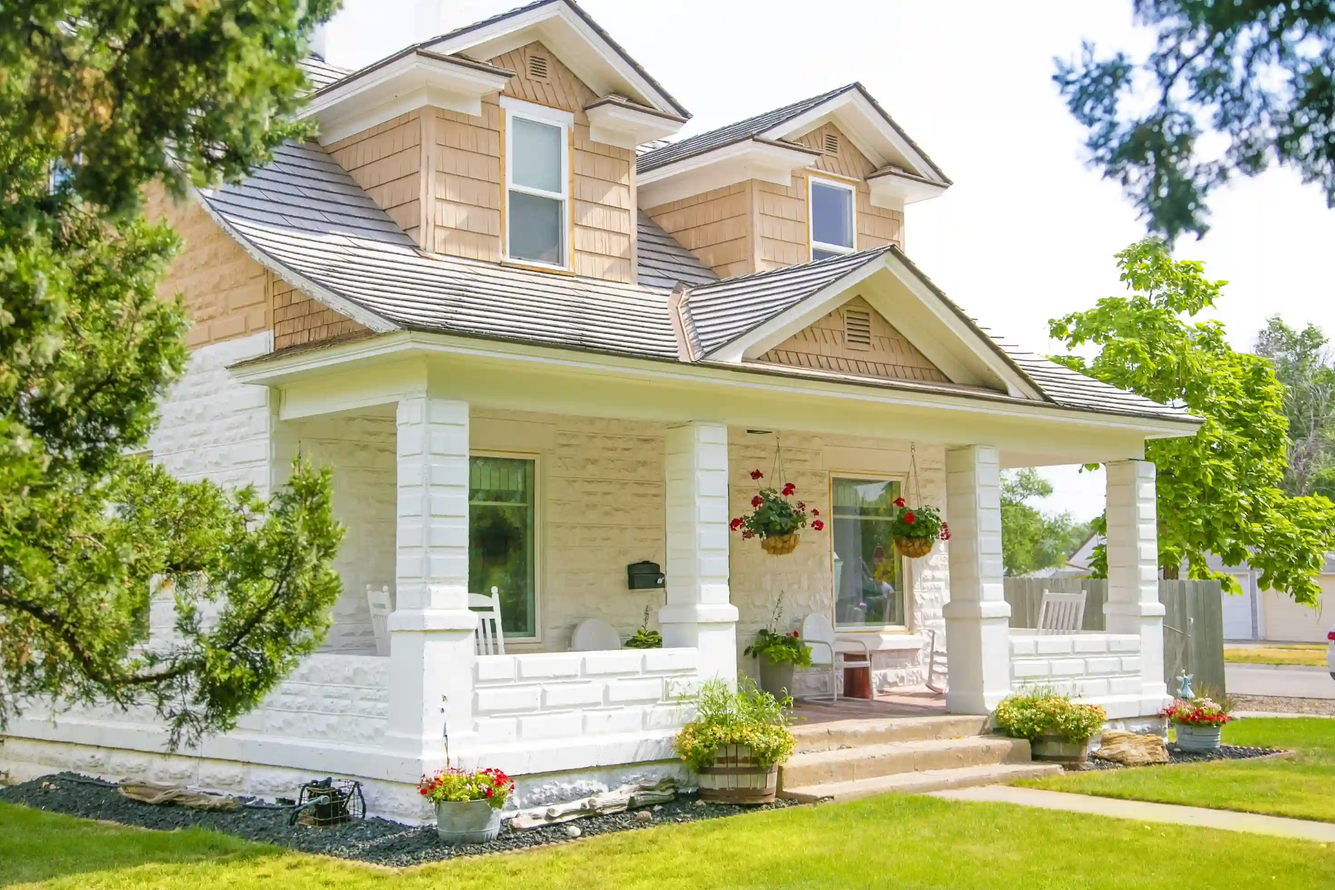
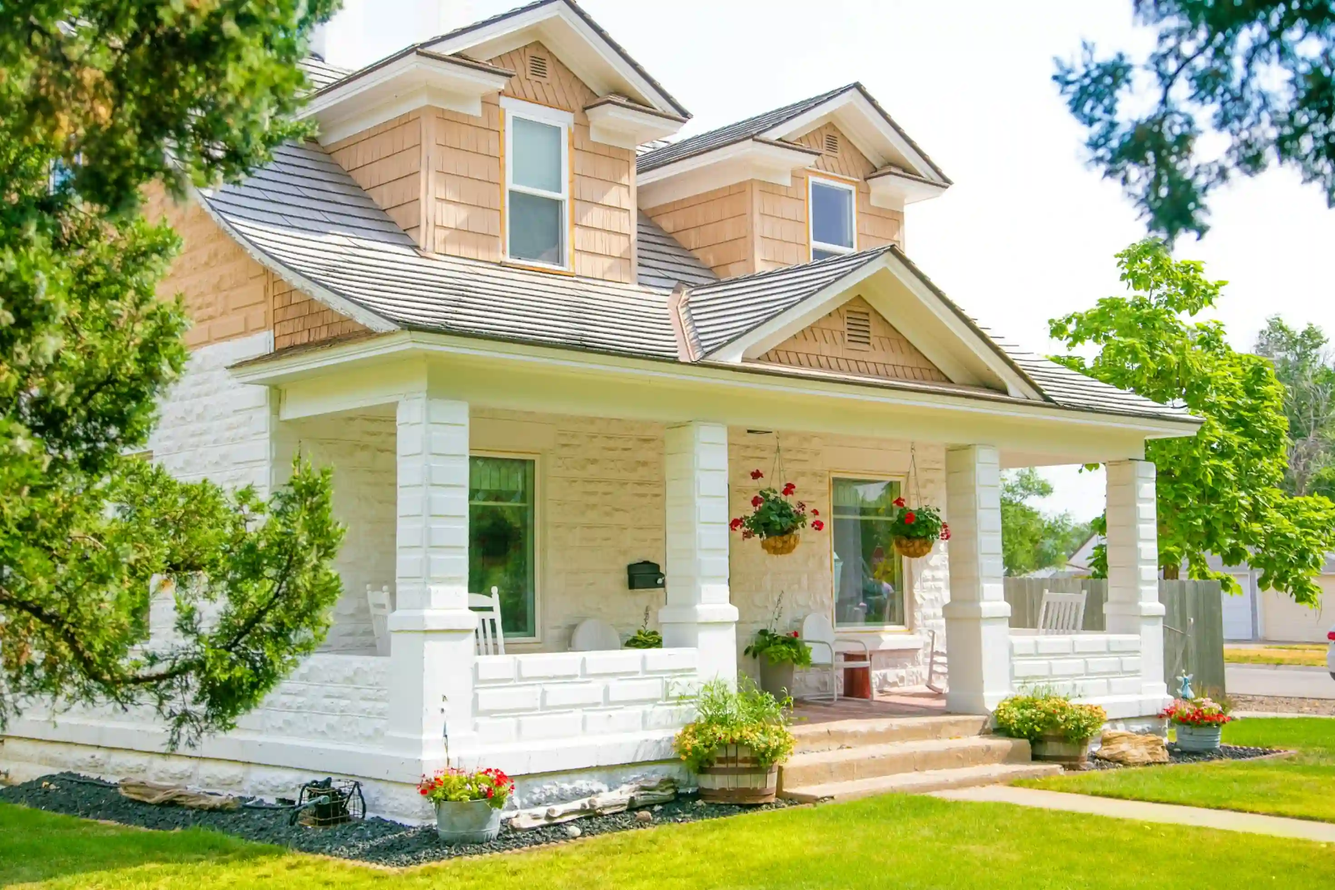
fix : optimize image& fix user interface

diff --git a/src/features/property/context/use-property.tsx b/src/features/property/context/use-property.tsx
@@ -21,6 +21,9 @@ interface PropertyContextType {
   error: unknown;
   selectedProperty: PropertyProps | null;
   setSelectedProperty: (selectedProperty: PropertyProps) => void;
+  categoryLists: string[];
+  selectedCategory: string;
+  setSelectedCategory: (category: string) => void;
 }
 const PropertyContext = createContext<PropertyContextType | undefined>(undefined);
 
@@ -29,12 +32,20 @@ export const PropertyProvider = ({ children }: { children: ReactNode }) => {
   const [selectedProperty, setSelectedProperty] = useState<PropertyProps | null>(null);
   const [loading, setLoading] = useState<boolean>(true);
   const [error, setError] = useState<unknown>(null);
+  const [categoryLists, setCategoryList] = useState<string[]>([]);
+  const [selectedCategory, setSelectedCategory] = useState<string>("All");
+
+
   useEffect(() => {
     const fetchPropertyData = async () => {
       try {
         const response = await axios.get("https://json-server-code-challenge.vercel.app/properties");
         setProperties(response.data);
         setLoading(false);
+        
+        const properties : PropertyProps[] = response.data;
+        setProperties(properties);
+        setCategoryList(["All",...new Set(properties.map((property: PropertyProps) => property.category))])
       } catch (error) {
         setError(error);
         setLoading(false);
@@ -45,7 +56,7 @@ export const PropertyProvider = ({ children }: { children: ReactNode }) => {
   },[])
 
   return (
-    <PropertyContext.Provider value={{properties, loading, error, selectedProperty, setSelectedProperty}}>
+    <PropertyContext.Provider value={{properties, loading, error, selectedProperty, setSelectedProperty, categoryLists, selectedCategory, setSelectedCategory}}>
       {children}
     </PropertyContext.Provider>
   )
@@ -53,6 +64,6 @@ export const PropertyProvider = ({ children }: { children: ReactNode }) => {
 
 export const useProperties = () => {
   const context = useContext(PropertyContext);
-  if (!context) throw new Error("useProducts muse within PropertyProvider");
+  if (!context) throw new Error("useProperties muse within PropertyProvider");
   return context;
 }

diff --git a/src/features/header/index.tsx b/src/features/header/index.tsx
@@ -4,10 +4,12 @@ import Image from "next/image";
 import Link from "next/link";
 import Sidemenu from "../sidemenu";
 import { useState } from "react";
+import { useProperties } from "../property/context/use-property";
 
 const Headers = () => {
 
   const [isSidemenuOpen, setSidemenuOpen] = useState(false);
+  const {setSelectedCategory} = useProperties();
 
   return (
     <nav className="text-white flex w-full h-fit items-center p-5 bg-white/20 rounded-[18px] my-6 relative">
@@ -21,19 +23,19 @@ const Headers = () => {
       </div>
       <div className="w-3/5 items-center justify-center px-20 hidden md:block">
         <ul className="flex justify-between w-full">
-          <li className="p-2"><Link href="/">Overview</Link></li>
-          <li className="p-2"><Link href="/unit">Unit</Link></li>
-          <li className="p-2"><Link href="/about-us">About Us</Link></li>
-          <li className="p-2"><Link href="/team">Team</Link></li>
+          <li className="p-2"><Link href="/" onClick={() => setSelectedCategory("All")}>Overview</Link></li>
+          <li className="p-2"><Link href="/unit" onClick={() => setSelectedCategory("All")}>Unit</Link></li>
+          <li className="p-2"><Link href="/about-us" onClick={() => setSelectedCategory("All")}>About Us</Link></li>
+          <li className="p-2"><Link href="/team" onClick={() => setSelectedCategory("All")}>Team</Link></li>
         </ul>
       </div>
-      <div className="w-1/5">
-        <div className="gap-2 hidden md:flex">
+      <div className="w-1/2 md:w-1/5 items-end justify-end">
+        <div className="gap-2 w-full hidden md:flex">
           <button className="px-6 py-2" name="register-button">Register</button>
           <button className="px-6 py-2 text-black bg-white border-[1px] rounded-xl border-[#DDDDDD] font-medium" name="login-button">Login</button>
         </div>
         <div
-          className="w-1/2 flex justify-end items-end md:hidden"
+          className="w-full flex justify-end items-end md:hidden"
           onClick={() => setSidemenuOpen(true)}
         >
           <Image

diff --git a/src/features/property/components/property-list.tsx b/src/features/property/components/property-list.tsx
@@ -4,10 +4,12 @@ import { useProperties } from "../context/use-property";
 import { useRouter } from "next/navigation";
 import PropertyCard from "./property-card";
 import { Property } from "@/type/properties";
+import CategoryFilter from "./category-filter";
+
 
 const PropertyLists = () => {
 
-  const { properties, setSelectedProperty } = useProperties();
+  const { properties, selectedCategory, setSelectedProperty } = useProperties();
   const router = useRouter();
 
   const handleArrowClick = (property: Property) => {
@@ -15,21 +17,29 @@ const PropertyLists = () => {
     router.push("/unit");
   }
 
+  const filteredProperties = selectedCategory === "All"
+    ? properties
+    : properties.filter((property) => property.category === selectedCategory);
+
   return (
-    <div className="flex flex-wrap gap-5 items-center justify-center">
-      {properties.map((property) => (
-        <div key={property.id}>
-          <PropertyCard
-            name={property.name}
-            location={property.location}
-            price={property.price}
-            discount={property.discount}
-            rating={property.rating}
-            image={property.image}
-            onSelect={() => handleArrowClick(property)}
+    <div className="grid grid-cols-1 w-full">
+      <CategoryFilter />
+      <div className="grid grid-cols-1 md:grid-cols-3 gap-5 items-center justify-center w-full">
+        {filteredProperties.map((property) => (
+          <div key={property.id}>
+            <PropertyCard
+              name={property.name}
+              location={property.location}
+              price={property.price}
+              discount={property.discount}
+              rating={property.rating}
+              image={property.image}
+              onSelect={() => handleArrowClick(property)}
             />
-        </div>
-      ))}
+          </div>
+        ))}
+      </div>
+
     </div>
   )
 

diff --git a/src/features/testimonials/components/testimonial-card.tsx b/src/features/testimonials/components/testimonial-card.tsx
@@ -12,7 +12,7 @@ const TestimonialCard: FC<TestimonialsProps> = ({ name, role, message, imageUrl}
             width={435}
             height={210}
             alt={`Image of ${name}`}
-            className="object-cover md:w-[435px] md:h-[210px] w-full h-full"
+            className="object-cover md:h-[210px] w-full h-full"
           />
           <div className="absolute right-0 top-0 rounded-bl-3xl bg-white border-white border-b-2 border-l-2 w-fit overflow-hidden">
             <div
@@ -23,7 +23,7 @@ const TestimonialCard: FC<TestimonialsProps> = ({ name, role, message, imageUrl}
         </div>
         <div className="flex flex-col gap-3">
           <div className="flex font-medium text-xl justify-between gap-4 md:gap-0">
-            <p className="text-sm text-gray-500">{message}</p>
+            <p className="text-sm text-gray-500 text-center md:text-left">{message}</p>
           </div>
         </div>
       </div>

diff --git a/src/features/property/components/category-button.tsx b/src/features/property/components/category-button.tsx
@@ -1,0 +1,33 @@
+"use client";
+
+import { useState } from "react";
+import { useProperties } from "../context/use-property";
+import { FC } from "react";
+import { cn } from "@/utils/cn";
+
+interface FilterButtonProps {
+    title: string;
+    itemCount: number;
+}
+
+const FilterButton: FC<FilterButtonProps> = ({ title, itemCount }) => {
+
+    const { selectedCategory, setSelectedCategory } = useProperties();
+
+    const [] = useState<boolean>(false);
+
+    return (
+        <button
+            className={cn("md:text-xl px-4 py-3 md:px-6 md:py-5 whitespace-nowrap rounded-full", selectedCategory === title ? "bg-blue-500 text-white font-bold" : "bg-blue-50")}
+            onClick={() => {
+                setSelectedCategory(title)
+            }}
+        >
+
+          {title}
+          ({itemCount})
+        </button>
+    );
+}
+
+export default FilterButton;

diff --git a/src/features/property/components/property-card.tsx b/src/features/property/components/property-card.tsx
@@ -14,7 +14,7 @@ interface PropertyProps {
 const PropertyCard: FC<PropertyProps> = ({ name, location, price, discount, rating, image, onSelect }) => {
   return (
     <div
-      className="flex flex-col gap-4"
+      className="flex flex-col gap-4 w-full"
       onClick={onSelect}>
       <div className="relative group">
         <Image
@@ -22,7 +22,7 @@ const PropertyCard: FC<PropertyProps> = ({ name, location, price, discount, rati
           width={410}
           height={200}
           alt={`Image of ${name}`}
-          className="object-cover md:w-[410px] md:h-[210px] w-full rounded-3xl h-full"
+          className="object-cover md:h-[240px] w-full rounded-3xl h-full"
         />
         <div className="absolute right-0 bottom-0 rounded-tl-3xl rounded-br-3xl bg-white border-white border-t-4 border-l-4 w-fit overflow-hidden">
           <button

diff --git a/src/features/property/components/category-filter.tsx b/src/features/property/components/category-filter.tsx
@@ -1,0 +1,29 @@
+"use client";
+
+import FilterButton from "./category-button";
+import { useProperties } from "../context/use-property";
+
+const CategoryFilter = () => {
+
+  const { properties, categoryLists } = useProperties();
+
+  const propertyQuantity = (category: string) => {
+    if(category === "All") return properties.length;
+    return properties.filter((property) => property.category === category).length;
+
+  }
+
+return (
+  <div className="mb-5 w-full flex flex-nowrap scrollbar-hide gap-2 overflow-scroll">
+    {categoryLists.map((category) => (
+      <FilterButton
+        key={category}
+        title={category}
+        itemCount={propertyQuantity(category)}
+      />
+    ))}
+  </div>
+);
+}
+
+export default CategoryFilter;

diff --git a/src/features/sidemenu/index.tsx b/src/features/sidemenu/index.tsx
@@ -1,4 +1,5 @@
 import Link from "next/link";
+import Image from "next/image";
 import { FC } from "react";
 import { cn } from "@/utils/cn";
 
@@ -30,13 +31,14 @@ const Sidemenu: FC<SidemenuProps> = ({ isOpen, setSidemenuOpen }) => {
           onClick={() => setSidemenuOpen(false)}
         >Team</Link></li>
       </ul>
-      <button
-      className="absolute right-5 top-5 text-xl"
+      <Image
+      src="/icons/close.svg"
+      width={32}
+      height={32}
+      alt="Close button"
       onClick={() => setSidemenuOpen(false)}
-      name="close-sidemenu"
-      >
-        X
-      </button>
+      className="absolute right-6 top-6"
+      />
     </div>
   );
 };

diff --git a/src/features/hero-section/index.tsx b/src/features/hero-section/index.tsx
@@ -2,7 +2,7 @@ import Headers from "../header";
 
 const HeroSection = () => {
   return (
-    <section className="relative h-screen w-screen bg-[url(/hero-section/bg-hero.webp)] overflow-hidden flex flex-col justify-start items-center text-white px-5 md:px-44">
+    <section className="relative h-screen w-screen bg-[url(/hero-section/bg-hero.webp)] bg-cover bg-no-repeat overflow-hidden flex flex-col justify-start items-center text-white px-5 md:px-44">
       <Headers />
       <div>
         <div className="flex flex-col gap-5 justify-center items-center text-center mt-10 md:mt-20">

diff --git a/src/app/globals.css b/src/app/globals.css
@@ -58,3 +58,7 @@
   font-weight: 600;
   font-style: italic;
 }
+
+.scrollbar-hide::-webkit-scrollbar {
+  display: none;
+}
